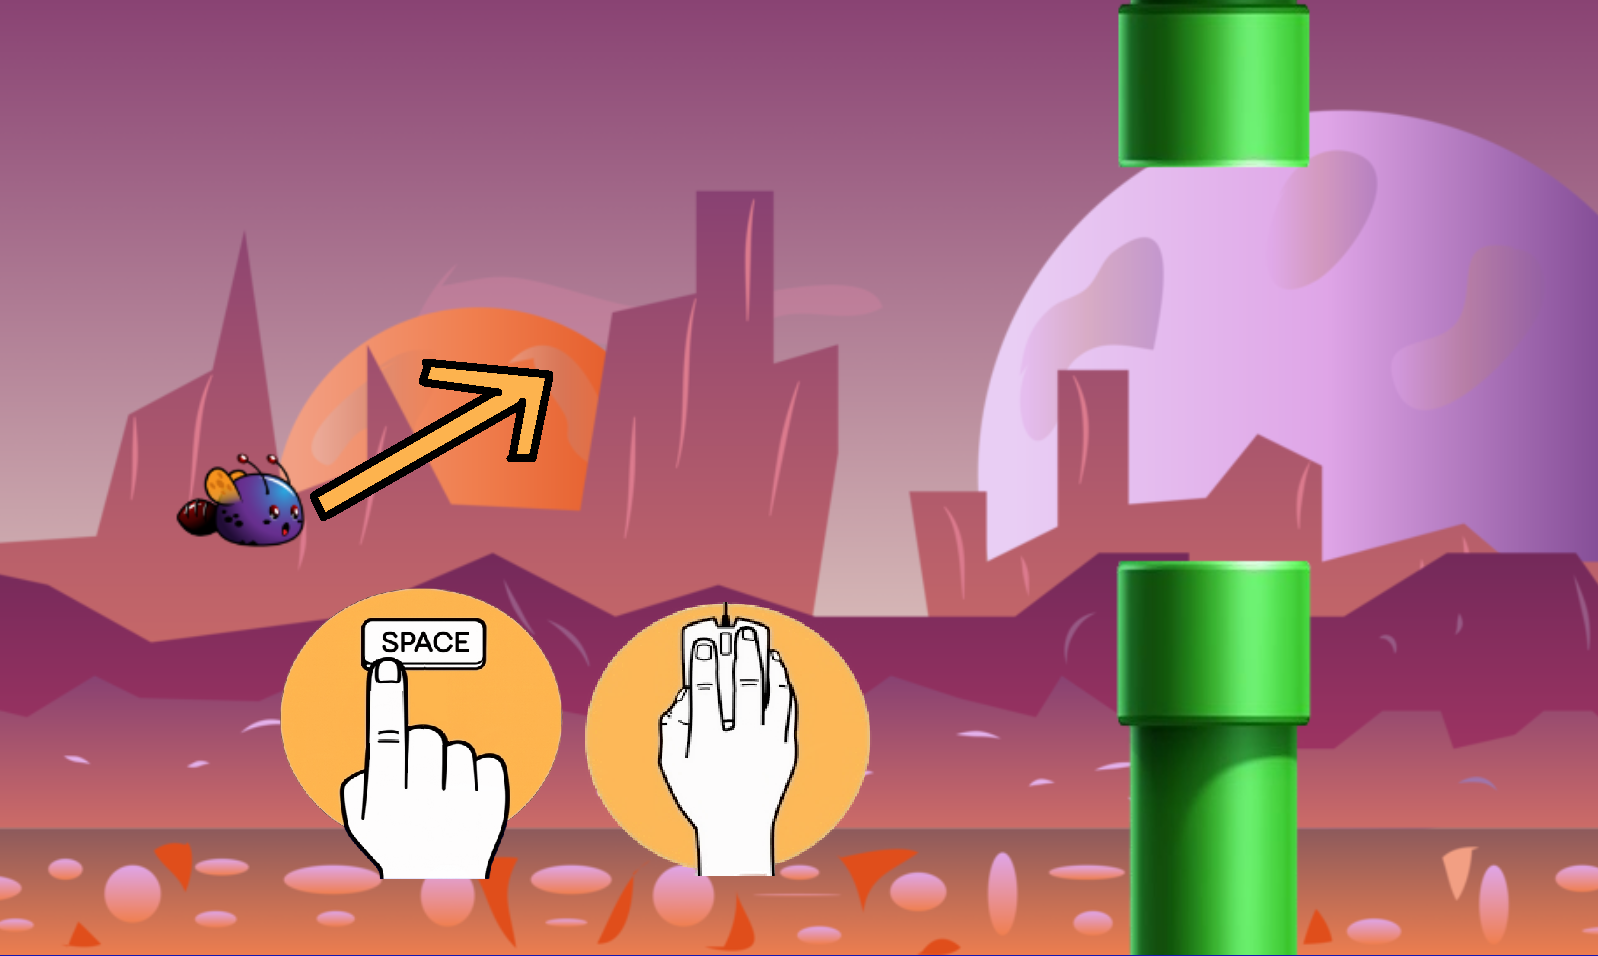
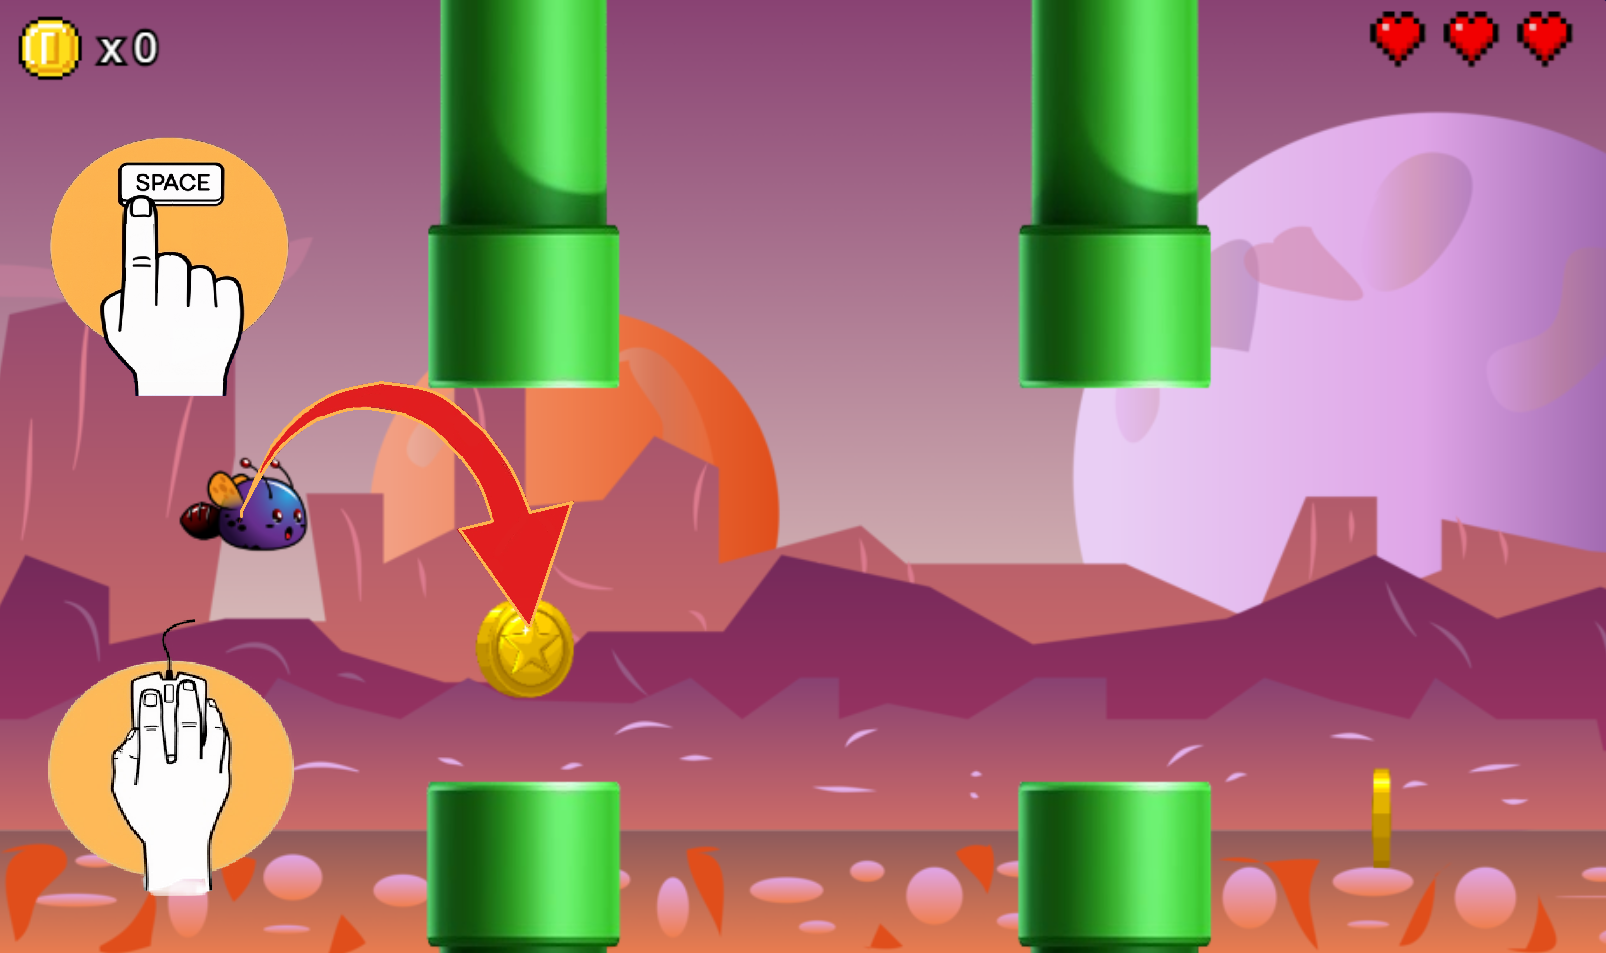
Se modifico la portada del home del juego Flappy. Se modificaron las imagenes ilustrativas que muestran como jugar al Flappy. Correccion de errores menores

diff --git a/TP5/pages/flappy.html b/TP5/pages/flappy.html
@@ -170,11 +170,31 @@
                         <div class="divider-gameplay"></div>
                     </div>
 
-                    <div class="gameplay-images">
-                        <img src="images/flappy/Instruccions/1.png" alt="">
-                        <img src="images/flappy/Instruccions/2.png" alt="">
+                    <div class="gameplay-cards">
+                        
+                        <div class="gameplay-card">
+                            <img src="images/flappy/Instruccions/1.png" alt="">
+                            <p class="gameplay-text">Junta monedas esquivando los obstaculos</p>
+                        </div>
+
+                        <div class="gameplay-card">
+                            <img src="images/flappy/Instruccions/2.png" alt="">
+                            <p class="gameplay-text">Al juntar estrellas obtienes invulnerabilidad</p>
+                        </div>
+
+                        <div class="gameplay-card">
+                            <img src="images/flappy/Instruccions/3.png" alt="">
+                            <p class="gameplay-text">Nada te hace daño</p>
+                        </div>
+
+                        <div class="gameplay-card">
+                            <img src="images/flappy/Instruccions/4.png" alt="">
+                            <p class="gameplay-text">Los corazones te regeneran vida</p>
+                        </div>
+
                     </div>
                 </div>
+
 
             </div>
 

diff --git a/TP5/js/games/flappy/models/runner.js b/TP5/js/games/flappy/models/runner.js
@@ -30,7 +30,7 @@ export class Runner extends CollidableEntity {
         this.gravity = 0.2;   // fuerza hacia abajo
         this.jumpForce = -6.5;  // fuerza hacia arriba
 
-        this.maxFallSpeed = 2;  // velocidad máxima de caída
+        this.maxFallSpeed = 1;  // velocidad máxima de caída
 
         this.colliderType = "ellipse";
 
@@ -240,21 +240,28 @@ export class Runner extends CollidableEntity {
         // limpiar partículas apagadas
         this.particles = this.particles.filter(p => p.alpha > 0);
     }
+
+
+    //invulnerabilidad luego de recibir daño
     startInvulnerability() {
+         
         this.isInvulnerable = true;
         this.opacity = 0.4;
 
         let blinkCount = 0;
         this.blinkInterval = setInterval(() => {
-            this.opacity = this.opacity === 1 ? 0.3 : 1;
+
+            this.opacity = (this.opacity === 1) ? 0.3 : 1;
+
             blinkCount++;
 
-            if (blinkCount >= 14) { // 7 parpadeos
+            if (blinkCount >= 14 || this.invincible) { // cantidad de parpadeos
                 clearInterval(this.blinkInterval);
                 this.opacity = 1;
                 this.isInvulnerable = false;
             }
-        }, 120);
+        }, 120); // cambia el valor de la opacidad en un intervalo de 0,12 segundos
+        
     
     }
 }

diff --git a/TP5/js/games/flappy/views/runnerView.js b/TP5/js/games/flappy/views/runnerView.js
@@ -14,7 +14,7 @@ export class RunnerView {
     draw() {
         const m = this.runner;
 
-        // Si NO está explotando → dibujar runner normal
+        // Si NO se cargo la imagen
         if (!m.sprite.complete) {
             this.ctx.globalAlpha = 1;
             return; // esperar carga
@@ -27,18 +27,16 @@ export class RunnerView {
         // aplicar transparencia (parpadeo)
         this.ctx.globalAlpha = m.opacity ?? 1;
 
-        // Si está explotando → dibujar explosión
+        // Si se quedo sin vidas → dibujar explosión
         if (m.isExploding) {
             this.drawExplosion();
-            this.ctx.globalAlpha = 1;
             return;
         }
 
-
-        // Si está invencible → efecto especial
+        // Si está invencible → efecto especial de la estrella
         if (m.isInvincible()) {
             this.drawInvincible();
-            return; // No dibujamos el runner normal aquí
+            return;
         }
 
         // Dibujar runner normal
@@ -67,7 +65,9 @@ export class RunnerView {
     }
 
      
-
+    // ============================================================
+    //         ★ Dibujar efecto al recolectar estrella ★
+    // ============================================================
     drawInvincible() {
         const m = this.runner;
 

diff --git a/TP5/css/gameplay.css b/TP5/css/gameplay.css
@@ -489,6 +489,7 @@ button.active {
     height: 100px;
 }
 
+/*  */
 .gameplay-information{  
     display: flex;
     flex-direction: column;
@@ -532,6 +533,44 @@ button.active {
     height: 200px;
     object-fit: cover;  /* hace que las imágenes llenen la celda sin deformarse */
 }
+
+/*  */
+
+.gameplay-cards{
+    display: grid;
+    grid-template-columns: repeat(auto-fit, minmax(360px, 1fr));
+    gap: 15px;
+    width: 100%;
+    padding: 10px;
+    box-sizing: border-box;
+}
+
+.gameplay-card{
+    background: rgba(255,255,255,0.08);
+    border: 1px solid rgba(255,255,255,0.15);
+    border-radius: 10px;
+    padding: 10px;
+    display: flex;
+    flex-direction: column;
+    align-items: center;
+    text-align: center;
+    gap: 8px;
+}
+
+.gameplay-card img{
+    width: 100%;
+    height: auto;
+    object-fit: contain;
+    border-radius: 6px;
+}
+
+.gameplay-text{
+    font-size: 0.95rem;
+    color: white;
+    line-height: 1.2;
+}
+
+
 
 /* ------------------------------------------- Comentarios --------------------------------------------- */
 

diff --git a/TP5/js/home.js b/TP5/js/home.js
@@ -73,8 +73,8 @@ function initHome(container){
       selectedGames.splice(3, 0, featuredGamePegSolitaire);
 
       const featuredGameFlappyRunner = {
-        title: "Flappy Runner",
-        image: `images/Flappy-Runner.png`, 
+        title: "Flappy Extraterrestrial",
+        image: `images/Flappy-Extraterrestrial.png`, 
         link: "#",
         category: ""
       };

diff --git a/TP5/components/carousel/carousel.js b/TP5/components/carousel/carousel.js
@@ -10,7 +10,7 @@ let navigateToPage = (titleText) => {
     import("../../js/router.js").then(({ navigateTo }) => navigateTo("pegSolitaire"));
   }
 
-  if(titleText === "Flappy Runner"){
+  if(titleText === "Flappy Extraterrestrial"){
     // card.id = "play-flappy-runner";
     import("../../js/router.js").then(({ navigateTo }) => navigateTo("flappy"));
   }
